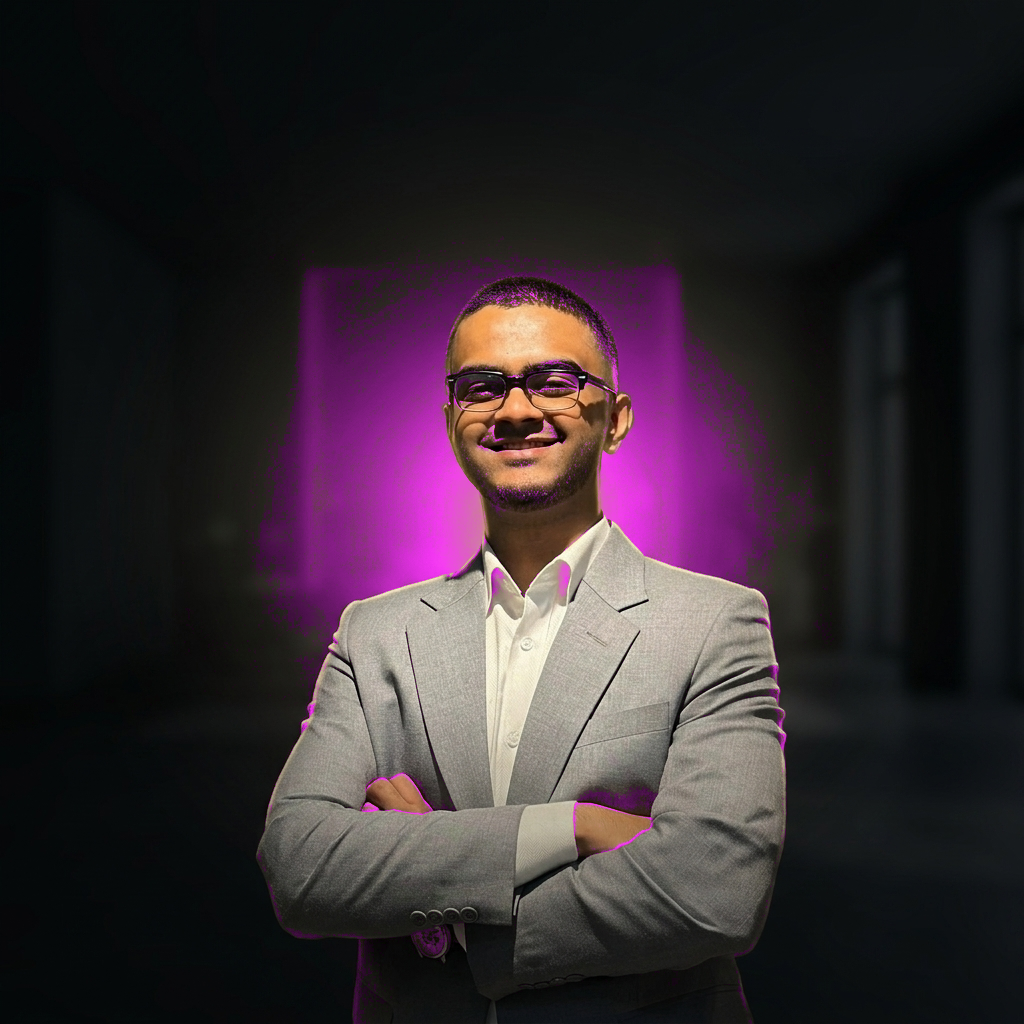
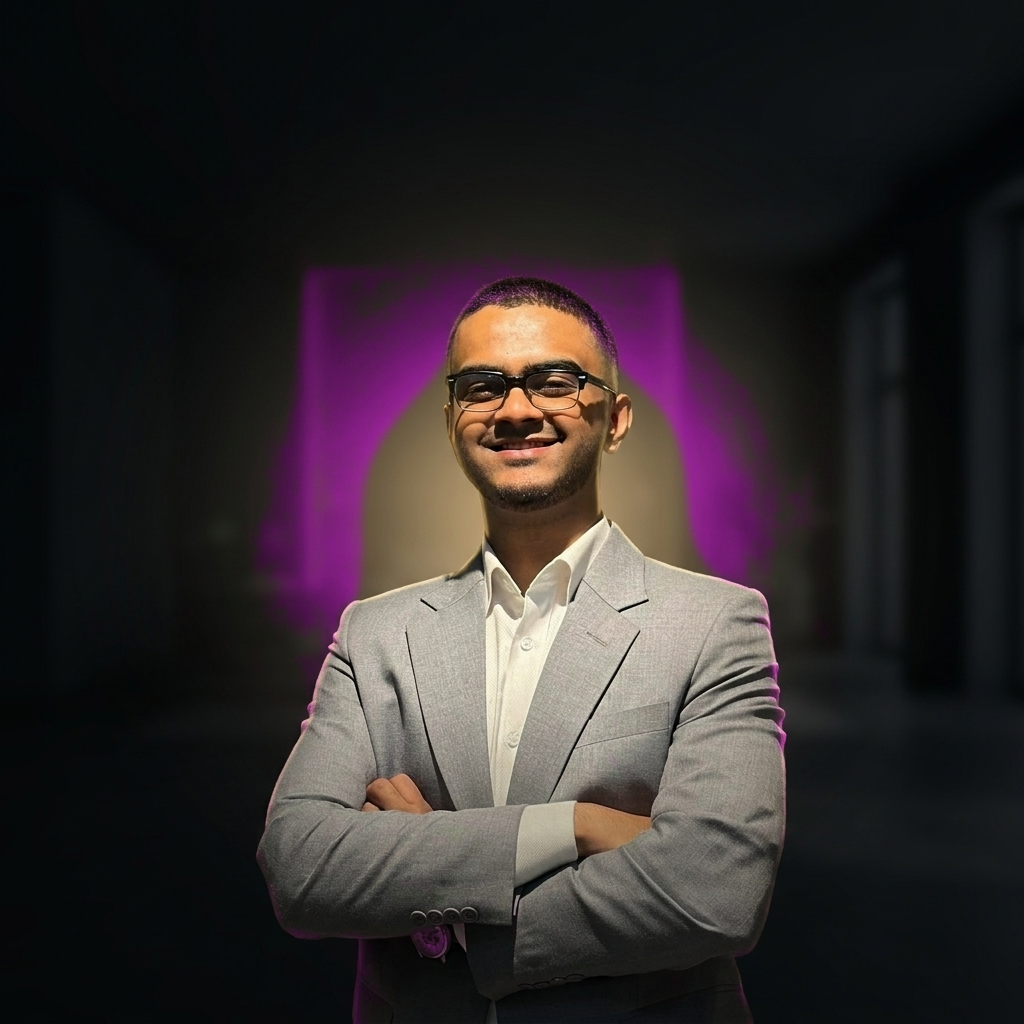
Keep the hero grade off the subject
Every non-amber variant tinted the face. The shadowed left jaw sits at
normalised warmth 0.44 and the wall at 0.40, so the warmth gate could not
separate them and the jaw was taking 69% of the grade. The shirt collar
fringed for the same reason.

Growing a mask outward from confidently-skin pixels does not fix it — that
jaw is as far from lit skin as the wall is. What does separate them is that
the subject is one solid region and the wall is not: seeding on "brighter
than the wall, or clearly skin" and closing the holes yields a silhouette
covering shadowed skin, collar and suit.

- Exclude that silhouette from the grade outright.
- Erode it back onto him before feathering. Hole-closing inflates the
  outline past his edge, which left a gold band hugging his head and
  shoulders; eroding puts the boundary just inside him so the wall is
  graded right up to it and only his rim picks up colour, which reads as
  coloured rim light.
- Blur the final mask slightly. Along the hair/wall boundary single pixels
  alternate between hair and wall, so the mask alternated too and the grade
  speckled.

Skin, collar and suit now match the ungraded master exactly in all four.

diff --git a/scripts/regrade-hero.py b/scripts/regrade-hero.py
@@ -26,7 +26,7 @@ or tints the face.
 Requires: pillow, numpy.
 """
 
-from PIL import Image
+from PIL import Image, ImageFilter
 import numpy as np
 import os
 
@@ -51,6 +51,31 @@ def smoothstep(e0, e1, x):
     return t * t * (3 - 2 * t)
 
 
+def blur(m, radius):
+    img = Image.fromarray((np.clip(m, 0, 1) * 255).astype(np.uint8))
+    return np.asarray(img.filter(ImageFilter.GaussianBlur(radius))).astype(np.float32) / 255.0
+
+
+def subject_mask(L, warm):
+    """Rough silhouette of the person, used to keep the grade off him entirely.
+
+    Warmth alone cannot protect shadowed skin: the shadowed jaw sits at 0.44
+    and the wall at 0.40, and a spatial grow from confident skin does not
+    separate them either — that jaw is as far from lit skin as the wall is.
+    But the subject is a single solid region and the wall is not, so seeding
+    on "brighter than the wall or clearly skin" and closing the holes gives a
+    silhouette that covers shadowed skin, the collar and the suit.
+
+    Closing the holes inflates the outline past his edge, which would leave a
+    gold band hugging him, so it is eroded back before a tight feather.
+    """
+    seed = ((L > 0.32) | (warm > 0.55)).astype(np.float32)
+    solid = (blur(seed, 26) > 0.42).astype(np.float32)   # close glasses/hair/shadow
+    solid = (blur(solid, 18) > 0.40).astype(np.float32)  # smooth the outline
+    solid = (blur(solid, 12) > 0.88).astype(np.float32)  # erode back onto him
+    return blur(solid, 3)                                # tight feather
+
+
 def main():
     a = np.asarray(Image.open(SRC).convert('RGB')).astype(np.float32) / 255.0
     R, G, B = a[..., 0], a[..., 1], a[..., 2]
@@ -61,7 +86,12 @@ def main():
         smoothstep(0.24, 0.36, warm)          # exclude neutral fabric
         * (1 - smoothstep(0.40, 0.62, warm))  # exclude skin
         * (1 - smoothstep(0.50, 0.72, L))     # exclude highlights
-    )[..., None]
+        * (1 - subject_mask(L, warm))         # exclude the subject outright
+    )
+    # Along the hair/wall boundary single pixels alternate between hair and
+    # wall, so the mask alternates too and the grade speckles. A small blur
+    # resolves it into a clean edge.
+    mask = blur(mask, 3)[..., None]
 
     gray = np.repeat(L[..., None], 3, axis=2)
 
